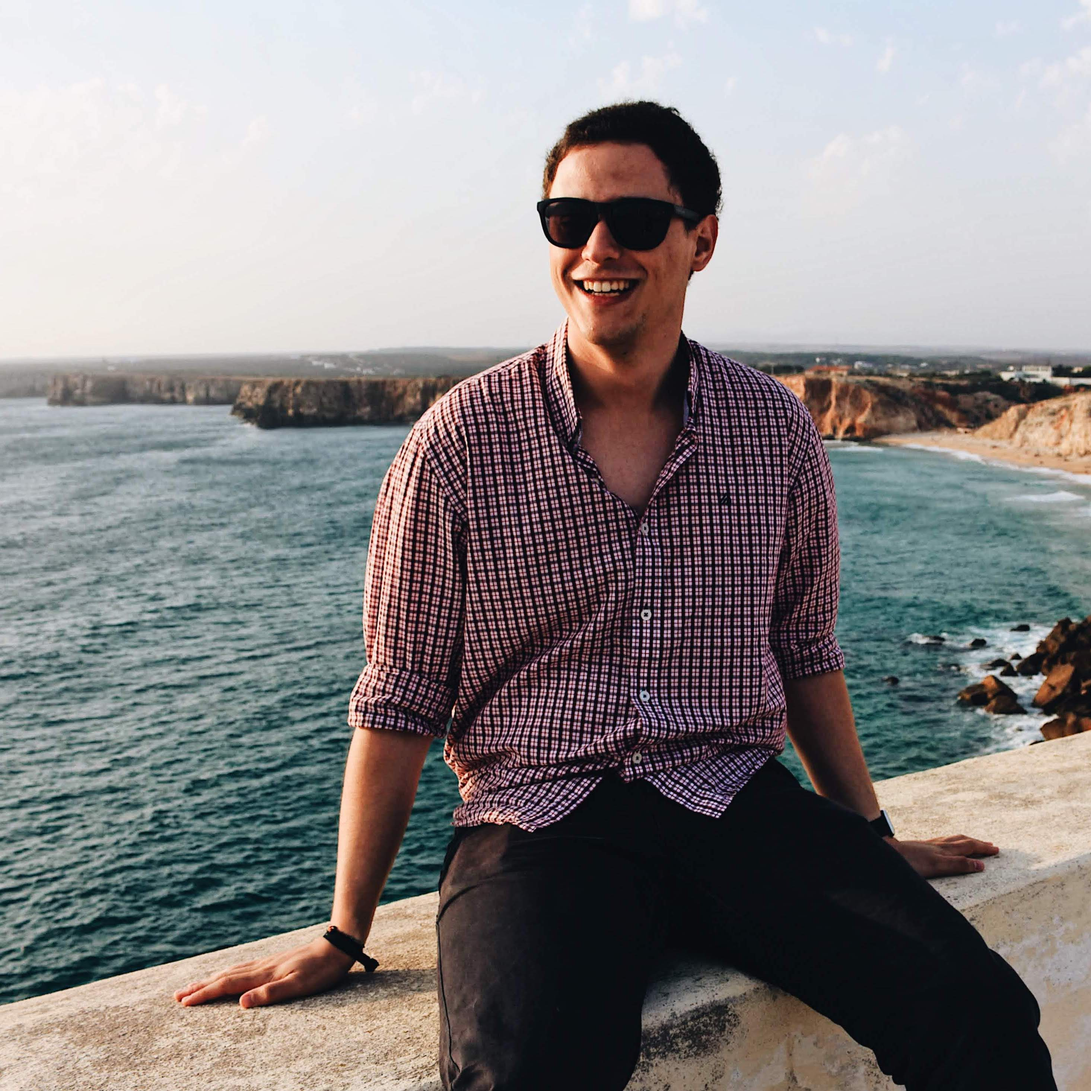
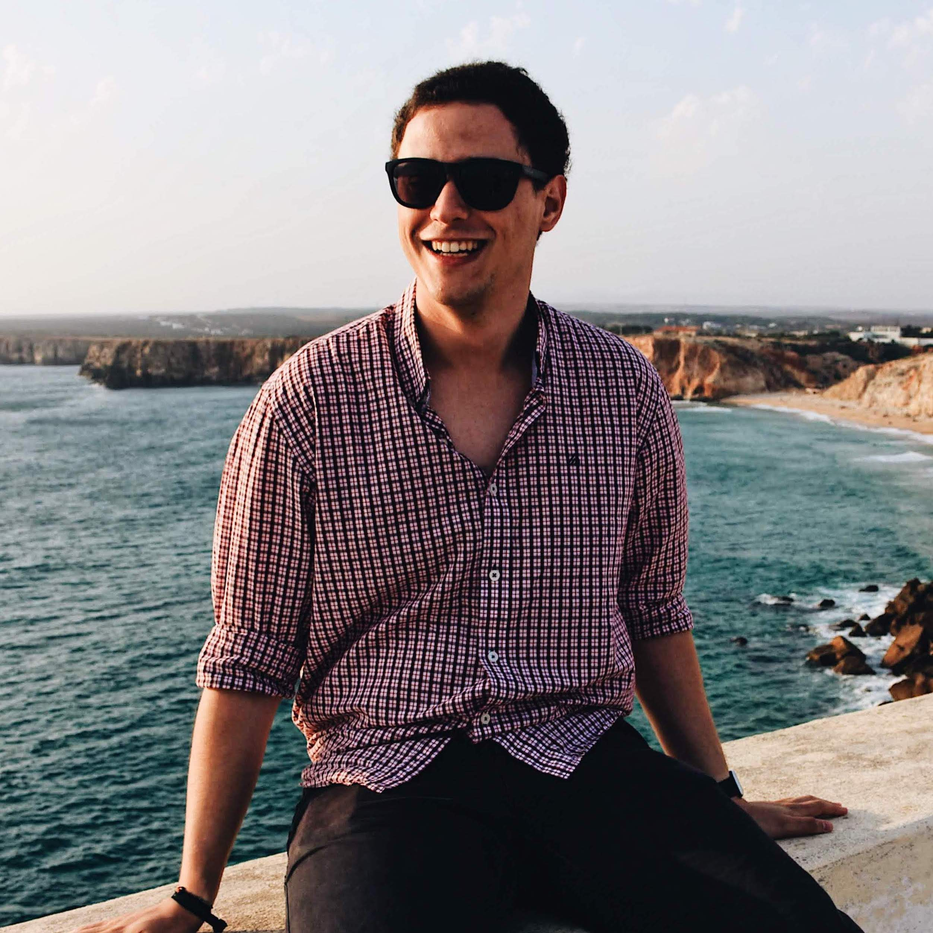
Added thesis and updated minor things

diff --git a/index.html b/index.html
@@ -116,7 +116,6 @@
                                 <!-- PROFILE PICTURE -->
                                 <div id="profile" class="right">
                                     <img alt="profile-image" class="img-responsive" src="images/profile.jpg">
-                                    <div class="slant"></div>
                                 </div>
 
                                 <div class="card-content">
@@ -205,9 +204,9 @@
                         <div class="card-content">
                             <!-- ABOUT PARAGRAPH -->
                             <p>
-                                Olá! 👋 I’m Miguel Regouga, a proud <i>alentejano</i> born in Beja, Portugal, in 1997. <br>To pursue my dream of becoming a computer science engineer, I moved to Lisbon, where I am currently a student of the Computer Science and Engineering masters' degree, at
+                                Olá! 👋 I’m Miguel Regouga, a proud <i>alentejano</i> born in Beja, Portugal, in 1997. <br><br>To pursue my dream of becoming a computer science engineer, I moved to Lisbon, where I am currently a student of the Computer Science and Engineering masters' degree, at
                                 Instituto Superior Técnico. <br>I am also a coordinator at the biggest free tech conference
-                                in Portugal, SINFO. <br>I absolutely love technology, music, and traveling. I'm a proactive, creative, fast learner, imaginative,
+                                in Portugal, SINFO. <br><br>I absolutely love technology, music, and traveling. I'm a proactive, creative, fast learner, imaginative,
                                 independent, hard, and dedicated worker.
                             </p>
                         </div>
@@ -590,7 +589,7 @@
                     <div id="skills-card" class="card">
                         <div class="card-content">
                             <div class="row">
-                                <div class="col-md-4 col-sm-4 col-xs-12">
+                                <div class="col-md-6 col-sm-6 col-xs-12">
                                     <!-- FIRST SKILL SECTION -->
                                     <div class="skills-title">
                                         <h6 class="text-center">Professional</h6>
@@ -628,45 +627,7 @@
                                 </div>
 
 
-                                <div class="col-md-4 col-sm-4 col-xs-12">
-                                    <!-- SECOND SKILL SECTION -->
-                                    <div class="skills-title">
-                                        <h6 class="text-center">Soft Skills</h6>
-                                    </div>
-                                    <!-- FIRST SKILL BAR -->
-                                    <div class="skillbar" data-percent="95%">
-                                        <div class="skillbar-title"><span>Motivation</span></div>
-                                        <div class="skillbar-bar"></div>
-                                        <div class="skill-bar-percent">95%</div>
-                                    </div>
-                                    <!-- FIRST SKILL BAR -->
-                                    <div class="skillbar" data-percent="95%">
-                                            <div class="skillbar-title"><span>Creativity</span></div>
-                                            <div class="skillbar-bar"></div>
-                                            <div class="skill-bar-percent">95%</div>
-                                        </div>
-                                    <!-- THIRD SKILL BAR  -->
-                                    <div class="skillbar" data-percent="95%">
-                                        <div class="skillbar-title"><span>Communication</span></div>
-                                        <div class="skillbar-bar"></div>
-                                        <div class="skill-bar-percent">95%</div>
-                                    </div>
-                                    <!-- FOURTH SKILL BAR  -->
-                                    <div class="skillbar" data-percent="90%">
-                                        <div class="skillbar-title"><span>Dedication</span></div>
-                                        <div class="skillbar-bar"></div>
-                                        <div class="skill-bar-percent">90%</div>
-                                    </div>
-                                    <!-- SECOND SKILL BAR  -->
-                                    <div class="skillbar" data-percent="90%">
-                                            <div class="skillbar-title"><span>Teamwork</span></div>
-                                            <div class="skillbar-bar"></div>
-                                            <div class="skill-bar-percent">90%</div>
-                                    </div>
-                                </div>
-
-
-                                <div class="col-md-4 col-sm-4 col-xs-12">
+                                <div class="col-md-6 col-sm-6 col-xs-12">
                                     <!-- THIRD SKILL SECTION -->
                                     <div class="skills-title">
                                         <h6 class="text-center">Software</h6>
@@ -743,12 +704,11 @@
                             </div>
                             <!-- TIMELINE PARAGRAPH -->
                             <p>
-                                Currently specializing in Interaction & Visualization. <br><br>Main curricular areas: User Centered Design, Natural Language Processing, Information Visualization, Data Science, Ambient Intelligence, Multimedia Content Production, Interactive Visual Communication and Information Systems Management.
+                                Currently specializing in Interaction & Visualization. <br><br><b>Main curricular areas:</b> User Centered Design, Natural Language Processing, Information Visualization, Data Science, Ambient Intelligence, Multimedia Content Production, Interactive Visual Communication, Information Systems Management, Internet of Things Interaction Design, Foundations of Information Systems, Information Systems Project Management.
+                                <br><br><b>Master thesis:</b><br> <a href="#" class="modal-dot" data-toggle="modal" data-target="#myModal-1">
+                                    The future of radio: combining streaming services with the traditional radio
+                                </a>
                             </p>
-                            <!-- BUTTON TRIGGER MODAL
-                            <a href="#" class="modal-dot" data-toggle="modal" data-target="#myModal-1">
-                                <i class="fa fa-ellipsis-h" aria-hidden="true"></i>
-                            </a> -->
                         </div>
                     </div>
                 </div>
@@ -777,7 +737,6 @@
                             <!-- TIMELINE PARAGRAPH -->
                             <p>
                                 Instituto Superior Técnico (University of Lisbon) is the largest school of Architecture, Engineering, Science and Technology of Portugal. <br><br>LEIC's main objective is to provide students with a solid background in Computer Science and Engineering, with a well-structured curriculum based on the best techniques and practices promoted internationally.
-                                <br><br><b>Final GPA: 14/20</b>
                             </p>
                         </div>
                     </div>
@@ -804,7 +763,7 @@
                             <!-- TIMELINE PARAGRAPH -->
                             <p>
                                 Completed the Sciences & Technologies area, participating in many of the school's national and international projects.
-                                <br><br><b>Final GPA: 17/20</b>
+    
                             </p>
 
                         </div>
@@ -829,26 +788,15 @@
                 <div class="modal-header  text-center">
                     <button type="button" class="close" data-dismiss="modal" aria-label="Close"><span
                             aria-hidden="true">&times;</span></button>
-                    <h4 class="modal-title" id="myModalLabel-1">EDUCATION AT X </h4>
+                    <h3 class="modal-title" id="myModalLabel-1"><br>The future of radio:<br>combining streaming services with the traditional radio</h3>
                     <h6>
-                        <small>Jan 2014 - Mar 2015</small>
+                        <small>Advisor: Nuno Jardim Nunes<br>Co-Advisor: Simone Ashby</small>
                     </h6>
                 </div>
                 <!--MODAL BODY-->
                 <div class="modal-body">
                     <p>
-                        I have learned a great many things from participating in varsity football.
-                        It has changed my entire outlook on and attitude toward life. Before my
-                        freshman year at [high-school], I was shy, had low self-esteem and turned
-                        away from seemingly impossible challenges. Football has altered all of these
-                        qualities. On the first day of freshman practice, the team warmed up with a
-                        game of touch football. The players were split up and the game began. However,
-                        during the game, I noticed that I didn't run as hard as I could, nor did I try
-                        to evade my defender and get open. The fact of the matter is that I really did
-                        not want to be thrown the ball. I didn't want to be the one at fault if I dropped
-                        the ball and the play didn't succeed. I did not want the responsibility of helping
-                        the team because I was too afraid of making a mistake. That aspect of my character
-                        led the first years of my high school life. All the while, I went to practice.
+                        Music streaming services are here to stay - their convenience, ease of use and viability allow millions around the globe to listen not only to their favorite songs but also to discover brand new artists that match their music taste. To many music listeners, however, traditional radio is still one of their favorite ways to listen to music, due to the human element of the company that is lost when using streaming services. Besides, traditional radio allows a quick obtainment of information during the broadcast, such as news, traffic information, and meteorology. We believe that the future of radio is to bring together the best aspects of each solution: the convenience of being able to choose what we want to hear from streaming services, and the company and information that a broadcaster allows on traditional radio stations. For this matter, we will study and develop a solution that aims to please those who love to listen to music.
                     </p>
                 </div>
                 <!--MODAL FOOTER-->

diff --git a/stylesheets/style_gray.css b/stylesheets/style_gray.css
@@ -931,7 +931,7 @@ html .btn, body .btn {
         /*vertical line for education in in min width 768 */
         left: 50%;
         margin-left: -2px;
-        height: 70%;
+        height: 75%;
         opacity: 0.4;
         background: #616161; }
 
